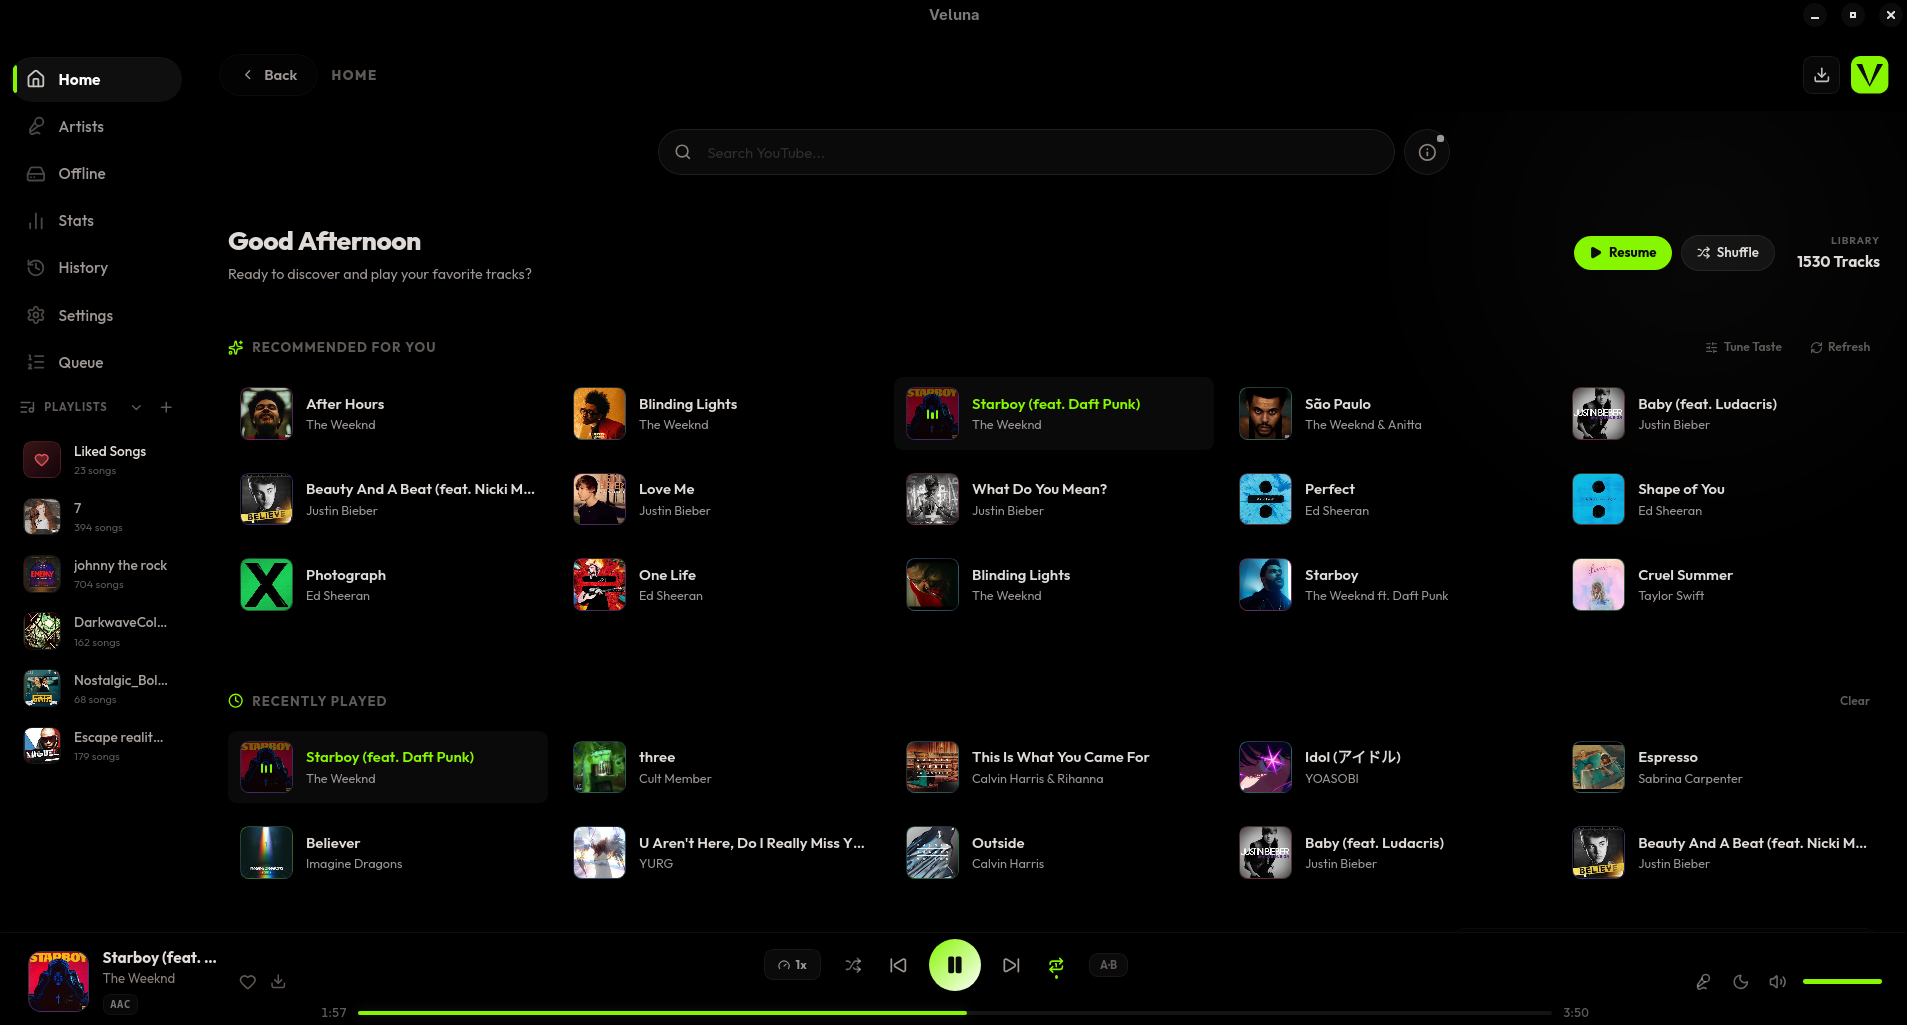
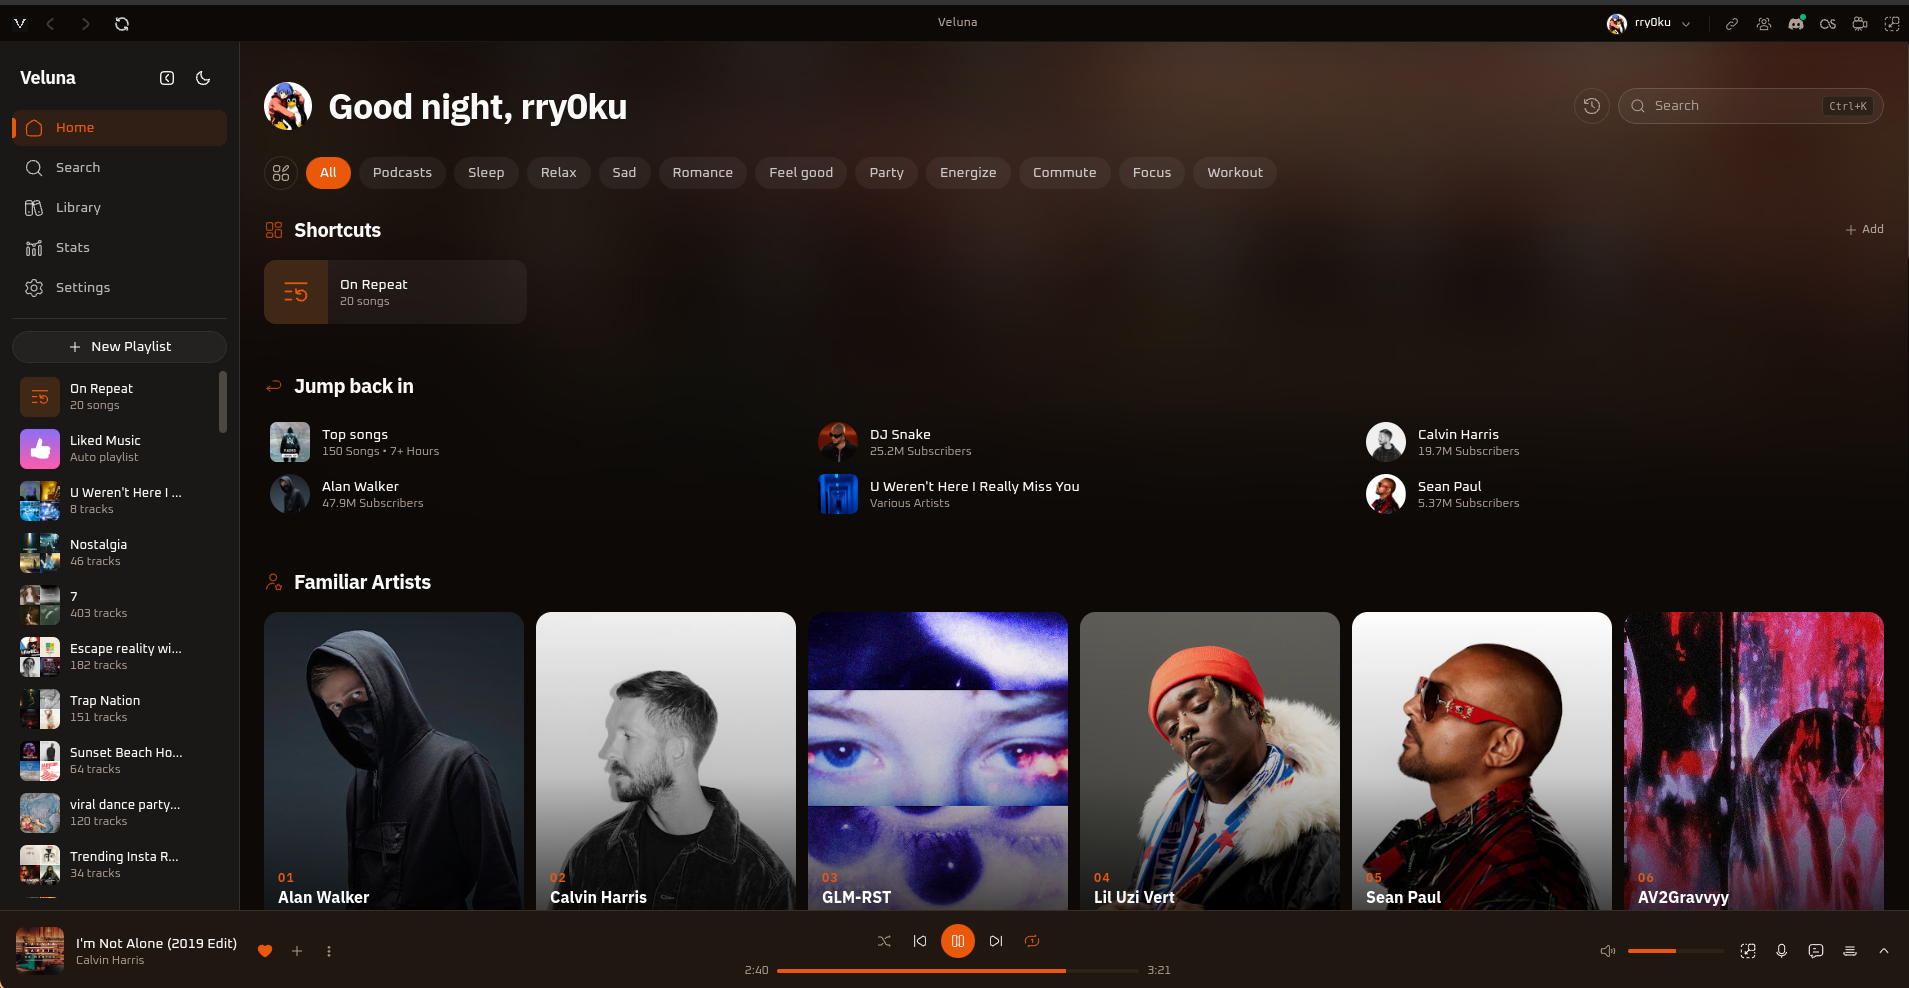
docs: refresh social embed preview image and refine release documentation - Replace docs/og-image.png with new 1909x988 interface screenshot - Update Open Graph and Twitter Card tags in docs/index.html with fresh dimensions and cache buster - Correct Windows installation in README to NSIS setup and 

diff --git a/docs/index.html b/docs/index.html
@@ -16,16 +16,16 @@
 <meta property="og:title" content="Veluna - Free, Open-Source and Ad-Free Music Player">
 <meta property="og:description" content="Stream millions of songs with zero ads, zero paywalls, and zero tracking. High-fidelity audio, offline downloads, and synced lyrics for Windows, macOS and Linux.">
 <meta property="og:url" content="https://rry0ku.github.io/veluna/">
-<meta property="og:image" content="https://rry0ku.github.io/veluna/og-image.png">
-<meta property="og:image:width" content="1907">
-<meta property="og:image:height" content="1025">
+<meta property="og:image" content="https://rry0ku.github.io/veluna/og-image.png?v=2">
+<meta property="og:image:width" content="1909">
+<meta property="og:image:height" content="988">
 <meta property="og:image:alt" content="Veluna Desktop Music Player Interface">
 
 <!-- Twitter Card -->
 <meta name="twitter:card" content="summary_large_image">
 <meta name="twitter:title" content="Veluna - Free, Open-Source and Ad-Free Music Player">
 <meta name="twitter:description" content="Stream millions of songs with zero ads, zero paywalls, and zero tracking. High-fidelity audio, offline downloads, and synced lyrics for Windows, macOS and Linux.">
-<meta name="twitter:image" content="https://rry0ku.github.io/veluna/og-image.png">
+<meta name="twitter:image" content="https://rry0ku.github.io/veluna/og-image.png?v=2">
 <meta name="twitter:image:alt" content="Veluna Desktop Music Player Interface">
 
 <!-- Structured Data (JSON-LD) for Google Rich Snippets -->
@@ -44,7 +44,7 @@
   "description": "Veluna is a free, open-source, ad-free desktop music player powered by YouTube Music. Features high-fidelity audio playback, offline downloads, synchronized lyrics, and zero tracking.",
   "url": "https://rry0ku.github.io/veluna/",
   "downloadUrl": "https://github.com/rry0ku/veluna/releases",
-  "image": "https://rry0ku.github.io/veluna/og-image.png",
+  "image": "https://rry0ku.github.io/veluna/og-image.png?v=2",
   "softwareVersion": "0.1.7",
   "license": "https://www.gnu.org/licenses/gpl-3.0.html",
   "author": {

diff --git a/README.md b/README.md
@@ -151,7 +151,7 @@ sudo zypper install ./veluna_<version>.x86_64.rpm
 
 ### Windows
 
-Veluna provides an interactive NSIS setup installer, a standalone MSI package, and a portable archive:
+Veluna provides an interactive NSIS setup installer as well as a standalone MSI package:
 
 - **NSIS Setup Installer (`.exe`)**:
   Recommended for desktop users. Download `veluna_<version>_x64-setup.exe` and run the installer. It configures Start Menu shortcuts, desktop icons, and automated self-updates.
@@ -160,8 +160,6 @@ Veluna provides an interactive NSIS setup installer, a standalone MSI package, a
   ```powershell
   msiexec /i veluna_<version>_x64_en-US.msi
   ```
-- **Portable Archive (`.zip`)**:
-  Extract and run `veluna.exe` directly without installation or administrator privileges.
 
 ### macOS
 
